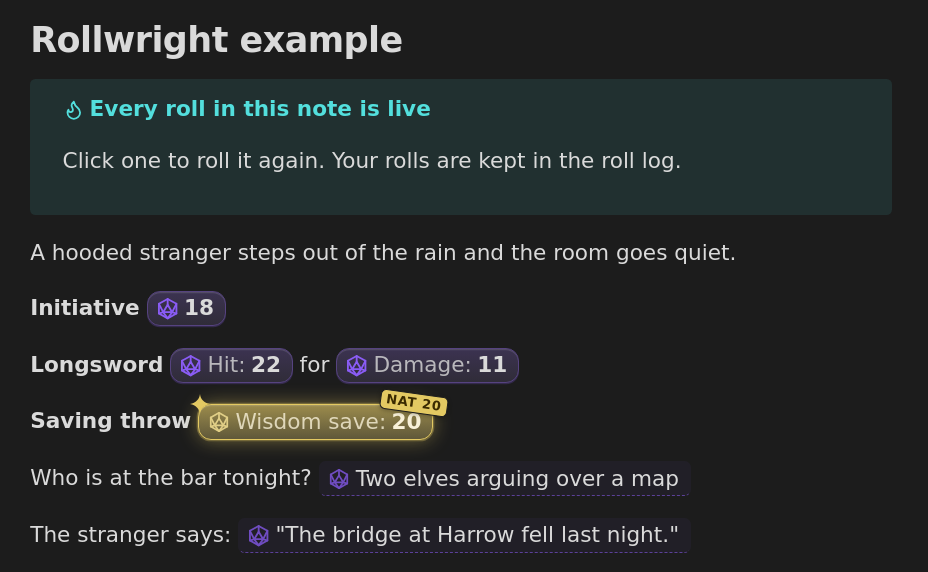
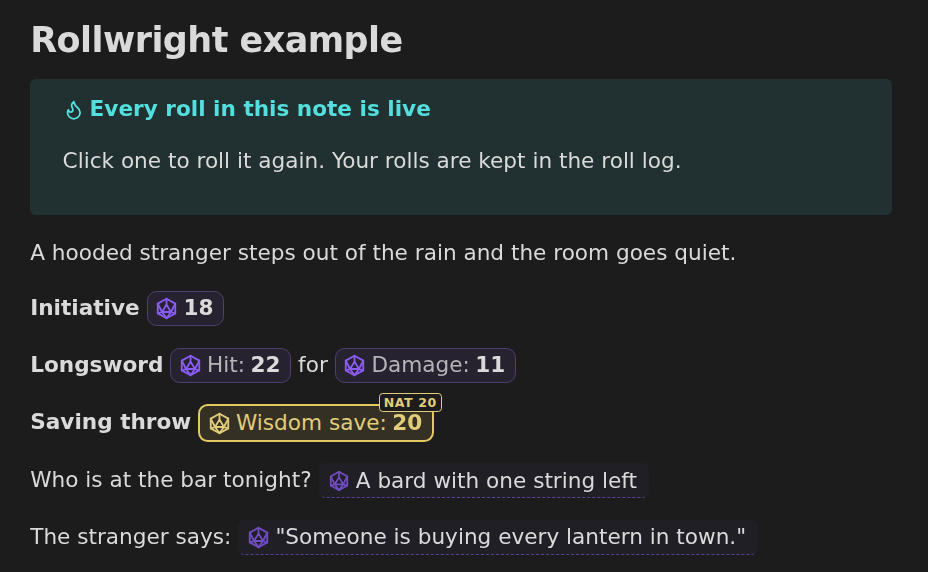
Daan: Rollwright 0.3.2 gekeurd (akkoord ja met kleurfix 2fa41c49), poster en GIF rustig, lijst Thijs, taak Olaf, stijl 22, logboek run 29
Claude-Session: https://claude.ai/code/session_01RMWUyg9RF2D16pHQK3wCVe

diff --git a/ontwerp/rollwright/bron/poster.html b/ontwerp/rollwright/bron/poster.html
@@ -35,7 +35,7 @@ h1 .g{background:linear-gradient(180deg,#FFE29A,#E8B84A);-webkit-background-clip
 .bar .mk{width:15px;height:15px;background:#9C7CFF;-webkit-mask:inherit}
 .card img{display:block;width:660px}
 .glow{position:absolute;border-radius:12px;box-shadow:0 0 0 2px rgba(255,214,120,.0),0 0 40px 10px rgba(232,184,74,.35);pointer-events:none}
-.lens{position:absolute;left:548px;top:540px;width:430px;border-radius:18px;overflow:hidden;background:#1C1C1C;transform:rotate(1.5deg);box-shadow:0 0 0 2px rgba(255,214,120,.75),0 0 60px 6px rgba(232,184,74,.35),0 30px 60px -20px rgba(0,0,0,.8)}
+.lens{position:absolute;left:548px;top:540px;width:430px;border-radius:18px;overflow:hidden;background:#1C1C1C;transform:rotate(1.5deg);box-shadow:0 0 0 1.5px rgba(232,184,74,.7),0 0 50px 2px rgba(232,184,74,.16),0 30px 60px -20px rgba(0,0,0,.8)}
 .lens img{display:block;width:430px}
 .lenslab{position:absolute;left:968px;top:600px;font:600 12px Inter;letter-spacing:.12em;text-transform:uppercase;color:#E8B84A;transform:rotate(1.5deg)}
 .foot{position:absolute;left:64px;bottom:40px;font-size:16px;color:#A79FBC}

diff --git a/ontwerp/rollwright/bron/maak-gif-rustig.py b/ontwerp/rollwright/bron/maak-gif-rustig.py
@@ -1,0 +1,26 @@
+import glob,re
+from PIL import Image, ImageDraw
+fr=sorted(glob.glob('gif-*.png'))
+pos={'Initiative':(262,440),'Damage':(500,496),'Wisdom':(395,553)}
+def cursor(im,x,y):
+    d=ImageDraw.Draw(im); s=1.25
+    pts=[(0,0),(0,17),(4,13),(7,20),(10,19),(7,12),(12,12)]
+    p=[(x+a*s,y+b*s) for a,b in pts]
+    d.polygon(p,fill='white',outline='black')
+frames=[];durs=[]
+for i,f in enumerate(fr):
+    n=f[4:-4]; im=Image.open(f).convert('RGB')
+    m=re.match(r'\d+-(hover-)?(Initiative|Damage|Wisdom)',n)
+    if m and 'rust' not in n: cursor(im,*pos[m.group(2)])
+    im=im.crop((60,130,1000,696)).resize((800,482),Image.LANCZOS)
+    frames.append(im)
+    ms=re.search(r'-(\d+)ms',n)
+    if 'start' in n: d=1100
+    elif 'hover' in n: d=200
+    elif 'rust' in n: d=500
+    else:
+        nxt=re.search(r'-(\d+)ms',fr[i+1]) if i+1<len(fr) else None
+        d=(int(nxt.group(1))-int(ms.group(1))) if nxt else 70
+    durs.append(max(40,d))
+frames[0].save('/tmp/claude-0/raw.gif',save_all=True,append_images=frames[1:],duration=durs,loop=0,optimize=True,disposal=1)
+print(len(frames),sum(durs))

diff --git a/ontwerp/rollwright/bron/zoom-gif.py b/ontwerp/rollwright/bron/zoom-gif.py
@@ -7,7 +7,7 @@ frames, durs = [], []
 for i in range(g.n_frames):
     g.seek(i); frames.append(g.convert("RGB")); durs.append(g.info.get("duration", 80))
 last = frames[-1]; W, H = last.size
-S, OX, OY = 2.65, 120, 256
+S, OX, OY = 2.65, 127, 260
 crit = Image.open(crit_p).convert("RGB")
 mask = Image.new("L", crit.size, 0); mask.paste(255, (14, 14, crit.size[0]-14, crit.size[1]-14)); mask = mask.filter(ImageFilter.GaussianBlur(8))
 def zoomed(t):
@@ -15,7 +15,7 @@ def zoomed(t):
     x0 = 0 + (OX-0)*t; y0 = 0 + (OY-0)*t
     x1 = W + (OX+W/S - W)*t; y1 = H + (OY+H/S - H)*t
     return last.crop((round(x0), round(y0), round(x1), round(y1))).resize((W, H), Image.LANCZOS)
-eind = zoomed(1.0).copy(); eind.paste(crit, (round((W-crit.size[0])/2), round((H-crit.size[1])/2)), mask)
+eind = zoomed(1.0).copy(); eind.paste(crit, (round((W-crit.size[0])/2)+10, round((H-crit.size[1])/2)+10), mask)
 durs[-1] = 700  # eerst even rust op de NAT 20, dan inzoomen
 n = 12
 for k in range(1, n+1):

diff --git a/producten/obsidian-rollwright/ontwerp.md b/producten/obsidian-rollwright/ontwerp.md
@@ -1,4 +1,6 @@
-Akkoord: ja 8 nov 2026 14:50, voor versie 0.3.1 op main 48fceef3 (keuringspunten van 0.3.0 en mijn kan-punten 1 en 2), ook geldig voor origin/main bf4199cf (daarna alleen notities en de hernoeming 07-rustig naar 99-rustig, zelfde inhoud). Gezien in de echte Obsidian: e2e main run 42482744485 (2b7b2fd5, groen). Uitbrengen mag. Zie beoordeling 11.
+Akkoord: ja 8 nov 2026 15:45, voor versie 0.3.2 (Classic rustig) op main 0687f880, **op voorwaarde dat** mijn kleurfix 2fa41c49 (tak `ontwerp/rollwright-reclame2`, alleen `10-classic-rustig.css` en `styles.css`) erin zit, en dat de README bij het uitbrengen de nieuwe poster en GIF krijgt zodra Thijs er ja op zegt (tot dan mag de oude poster blijven staan). Gezien in de echte Obsidian: e2e main run 42490160094 (groen) en mijn opname run 42495072998 met de fix. Uitbrengen mag. Zie beoordeling 12.
+
+Oud: Akkoord: ja 8 nov 2026 14:50, voor versie 0.3.1 op main 48fceef3 (keuringspunten van 0.3.0 en mijn kan-punten 1 en 2), ook geldig voor origin/main bf4199cf (daarna alleen notities en de hernoeming 07-rustig naar 99-rustig, zelfde inhoud). Gezien in de echte Obsidian: e2e main run 42482744485 (2b7b2fd5, groen). Uitbrengen mag. Zie beoordeling 11.
 
 Oud: Akkoord: ja 8 nov 2026 11:40, voor versie 0.3.1 (plugin, skins v2 ronde f, README en manifest) op main 370d8942 en c5f33c5d (daarna alleen e2e-tests en OPEN.md). Gezien in de echte Obsidian: e2e main run 42475293918 (ff3f5e09, zelfde src) en mijn ontwerptest run 42475770304 op tak `ontwerp/rollwright-031`. Uitbrengen mag. Zie beoordeling 10.
 
@@ -258,4 +260,14 @@ Bekeken in de echte Obsidian: de schermen van main (voorbeeldnotitie, secties, c
 Olaf vroeg om herkeuring na de keuringspunten van 0.3.0 en mijn kan-punten. Verschil met 370d8942 in wat je ziet: CSS zonder `!important` (zelfde werking, `:is(body, #rollwright-rustig)` wint nu), `gap` in plaats van `column-gap` (zelfde maat), de komma voor schermlezers met `opacity: 0` in plaats van `clip-path` (1 px, absoluut, niet te zien), README "plain text, like 1d6", en in het lege logboek "Open the example note" als de notitie al bestaat.
 Bekeken (GEZIEN, run 42482744485): `crit-crit-licht`, `winkel-3-geschiedenis`, `voorbeeld-lezen`, lijst van alle 65 schermen. Alles zoals bij beoordeling 10; de knop "Open the example note" staat er en past. Geen controleur deze keer: er veranderde niets aan het uiterlijk, alleen hoe de CSS het zegt (zoals bij de herkeuringen van 0.2.0).
 Besluit: `Akkoord: ja`. Waarom: niets werd slechter, de twee kan-punten zijn goed gebouwd.
+
+## Beoordeling 12, 8 nov 2026 15:45 (versie 0.3.2, main 0687f880, runs 42490160094 en 42495072998)
+
+Olaf bouwde Classic rustig letterlijk naar mijn ontwerp (`10-classic-rustig.css`) en vroeg om een keuring.
+Bekeken (GEZIEN, run 42490160094): `classic-rustig-crit-licht`, `-crit-donker`, `-fumble-licht`, `-naast-arcane`, `skin-tegels-licht`, `l1-logboek`, `winkel-1-lezen-donker`, ingezoomd. Rustig en verzorgd: plat, gouden rand en cijfer, klein recht stempel; Parchment en Arcane houden hun feest. De belofte "A natural 20 lands in gold" klopt.
+**Controleur (agent):** ja, met één moet-punt: het goud in een licht thema was te zwak (cijfer 4,26:1 tegen de crème vulling, label "Wisdom save:" ±3,0:1 door `opacity: 0.8`). Zelf nagerekend: klopt.
+**Zelf opgelost** (CSS, mag volgens mijn rol), commit 2fa41c49 op tak `ontwerp/rollwright-reclame2`: goud in licht 48% in plaats van 58% (cijfer, d20, stempel: 5,3:1), rand in licht iets dieper (85% goud met de tekstkleur), in donker de rand zoals hij was, en het label vol (opacity 1) bij goud en rood. Gezien in run 42495072998 (`poster-ruw-crit-licht`): goed leesbaar, nog steeds goud. De e2e `classic-rustig` blijft groen op de randkleur (veel rood en groen, weinig blauw).
+**Vraag Olaf, 1.5px of 2px:** 1.5px blijft. Waarom: op de meeste schermen (retina, 125% en 150%) is het al dikker dan 1px, en het goud valt op door kleur en vulling. Een dikkere rand maakt Classic weer drukker, en 2px vraagt een andere padding (regel springt). De controleur adviseerde 2px alleen bij crit; ik kies rustig.
+**Kan-punten voor Olaf (later, geen voorwaarde):** (1) het stempel verschijnt al terwijl het cijfer nog doortelt, dus even staat "NAT 20" boven een 1 (gezien in de GIF-opname, frame Wisdom 446 tot 646 ms): stempel pas tonen als het doortellen klaar is. (2) eerste winkelscherm `winkel-1-lezen` toont een NAT 1 en geen NAT 20 (alleen e2e, niet de winkel).
+**README:** de poster en de GIF in de README toonden de oude Classic met gloed, sterretje en scheef stempel. Na 0.3.2 belooft dat iets wat gratis niet meer doet. Nieuwe poster `ontwerp/rollwright/winkel-1-poster-rustig.png` en GIF `ontwerp/rollwright/demo-rustig.gif` van echte schermen van 0.3.2 met de fix; controleur ja (moet-punt restje muispijl in het laatste frame: opgelost). Op de lijst van Thijs. Het logboek-plaatje (`winkel-2-logboek.jpg`) heeft geen crit en blijft.
 

diff --git a/berichten/daan.md b/berichten/daan.md
@@ -18,4 +18,4 @@ Berichten van Thijs gaan voor op je takenlijst. Lees ze elke run als eerste.
 - **8 nov 12:33 (Thijs, via de projectchat): skins-plaatje v2.** Ja, ze mogen mee in 0.3.1. Maar Thijs vindt het verschil nog steeds niet heel groot. Blijf verbeteren in een volgende versie: zoek iets dat echt anders voelt, niet alleen een andere kleur (bijvoorbeeld een eigen vorm voor het token, een eigen animatie bij het rollen, een eigen lettertype per skin; jij beslist). Geen haast: eerst komen de gebruikers voor het gratis deel.
 - **8 nov 12:34 (Thijs, aanvulling op 12:33):** Concreet: de achtergrond is bij beide skins nog hetzelfde, en Parchment en Arcane lijken echt veel op elkaar. Er mag duidelijk meer werk in, ook qua thema's: een skin moet als een eigen wereld voelen, niet als hetzelfde token in een andere kleur. Denk aan een eigen achtergrond of sfeer rond de worp, eigen vormen en eigen details per skin, en hoe elke skin eruitziet in de populaire Obsidian-thema's. Kijk bij de beste voorbeelden (ook buiten Obsidian, zoals dobbelsteen-apps en VTT's) en doe er een stap bovenop. Maak eerst een ontwerp, laat het in de echte Obsidian zien, en zet het daarna op de lijst van Thijs. **Bezig 8 nov 12:40 (Daan): ontwerp skins v3 staat in `producten/obsidian-rollwright/ontwerp-skins-v3.md`: per skin een eigen vorm (gescheurde strook papier, kristal), eigen letter (IM Fell, Cinzel), eigen merkteken (lakzegel) en eigen beweging bij het rollen. Gezien in de echte Obsidian (run 42480610172, tak `ontwerp/rollwright-skins5`). Nog: Roll log als eigen wereld per skin, thema's, plaatje; daarna op jouw lijst.** **Bezig 8 nov 12:53 (Daan): ronde e gezien (run 42481892258): Arcane is nu een ijskristal (niet meer paars zoals Classic), Roll log is per skin een kroniek of een sterrenkaart. Nog: tegels, beweging in beeld, thema's, plaatje.**
 - **8 nov 14:06 (Thijs, via de projectchat): Classic is te uitbundig.** Thijs vindt dat Classic (gratis) nu zelf al op een skin lijkt: gloed, sterretje, gouden vlak, NAT 20-stempel, net als Parchment en Arcane (gezien op `ontwerp/rollwright/winkel-3-skins-v2.jpg`). Maak Classic rustiger, zodat de betaalde skins echt iets extra's zijn. Eén harde grens van de projectchat: **de belofte blijft waar.** De listing, de README en het forumbericht van vandaag (titel: "where a natural 20 lands in gold") beloven dat de hoogste worp in goud landt, met een NAT 20-stempel, en de laagste rood. Dat blijft dus in Classic, maar sober: platte tokens in de themakleuren, goud als rand of tekstkleur zonder gloed, geen sterretje, kleiner stempel, korte animatie. Alle effecten (gloed, glans, sterren, aura) alleen in de betaalde skins. Maak het gratis deel niet slecht, alleen rustig: de gratis gebruiker moet nog steeds blij zijn, anders komen er slechte reviews. Neem hierin zelf de beslissingen, jij bent de baas over het ontwerp. Daarna bouwt Olaf het; past het niet meer in 0.3.1, dan in de versie erna. Laat Thijs het nieuwe plaatje zien voordat het live gaat (op de lijst). **Bezig 8 nov 14:55 (Daan): Classic rustig ontworpen en gezien in de echte Obsidian (run 42485814247, tak `ontwerp/rollwright-classic`), controleur ja; plaatje voor en na op jouw lijst; klus bij Olaf staat klaar maar wacht op jouw ja.**
-- **8 nov 14:58 (Thijs, via de projectchat): Classic rustig: ja.** Olaf bouwt het in 0.3.2. Daarna: maak vooral de **betaalde skins echt mooier** (skins v3); dat is waar het verschil moet zitten. Maar **gebruikers krijgen heeft voorrang**: werk eerst alles af wat de lancering helpt (plaatjes, GIF, winkel- en productpagina's die gebruikers overtuigen), en skins v3 daarna. **Bezig 8 nov 14:35 (Daan): eerst Bison & Flex plaatje 4 en 5 (Pro), die hielden Hidden uit tegen; klaar, controleur ja, op jouw lijst. Daarna lanceerwerk Rollwright, dan skins v3.**
+- **8 nov 14:58 (Thijs, via de projectchat): Classic rustig: ja.** Olaf bouwt het in 0.3.2. Daarna: maak vooral de **betaalde skins echt mooier** (skins v3); dat is waar het verschil moet zitten. Maar **gebruikers krijgen heeft voorrang**: werk eerst alles af wat de lancering helpt (plaatjes, GIF, winkel- en productpagina's die gebruikers overtuigen), en skins v3 daarna. **Bezig 8 nov 14:35 (Daan): eerst Bison & Flex plaatje 4 en 5 (Pro), die hielden Hidden uit tegen; klaar, controleur ja, op jouw lijst. Daarna lanceerwerk Rollwright, dan skins v3.** **Bezig 8 nov 15:45 (Daan): 0.3.2 gekeurd (ja, met een kleine kleurfix voor goud in licht); poster en GIF opnieuw gemaakt met de rustige Classic, zodat de reclame klopt met wat gratis doet; op jouw lijst.**

diff --git a/ontwerp/logboek.md b/ontwerp/logboek.md
@@ -294,3 +294,15 @@ Alleen aanvullen. Per run: datum, wat bekeken (met run-nummer), wat gevonden, wa
 - **Volgende run:** ronde d van Classic is door Thijs goedgekeurd, Olaf bouwt; daarna lanceerwerk Rollwright (productpagina dortus.com/rollwright nakijken als die er is), dan skins v3.
 - **Na het eerste opslaan: productpagina's op dortus.com bekeken** (eerste keer door mij; live, 1280 en 390 breed, GEZIEN). Rollwright: versie stond nog op 0.3.0 en de poster had nog "two extra skins $6" (Thijs 8 nov 08:40: skins niet aanprijzen); verbeterd naar 0.3.1, de poster van de README en ruimte boven de feitenkaarten (dortus aece23d). Bison & Flex: bovenaan stond een klein, onleesbaar scherm van het hele IDE-venster, de poster pas onderaan; nu poster bovenaan, scannerkaart en de twee Pro-kaarten in "Free and Pro" (dortus bfe67f0). Geen horizontaal scrollen op de telefoon. Waarom zelf: alleen plaatjes en een versienummer, geen tekst van Chris of Jet veranderd.
 - **Nog open (kan, later):** Rollwright-poster op de pagina en in de README toont een gloeiende NAT 20; na Classic rustig (0.3.2) moet de poster de rustige Classic of duidelijk een betaalde skin tonen, anders belooft hij wat gratis niet doet. Bison-hero tekst is lang (vier regels kop, twee alinea's).
+
+## 8 nov 2026, run 29 (klok van de omgeving 15:24 tot ±15:45 UTC)
+
+- **Lokale kopie:** losgekoppeld en ondiep; main opnieuw op origin/main gezet en de geschiedenis volledig opgehaald. Niets weggegooid.
+- **Berichten Thijs:** niets nieuws sinds 14:58.
+- **Rollwright 0.3.2 gekeurd** (Olafs vraag onderaan `ontwerp-skins-v3.md`). Schermen main run 42490160094 GEZIEN: Classic rustig zoals ontworpen. **Controleur (agent):** ja, moet-punt goud in licht te zwak (cijfer 4,26:1, label ±3,0:1), zelf nagerekend. Zelf opgelost met CSS (2fa41c49, tak `ontwerp/rollwright-reclame2`): 5,3:1, label vol. Gezien in run 42495072998.
+- **Besloten:** `Akkoord: ja` voor 0.3.2 met de kleurfix als voorwaarde (beoordeling 12). Rand 1.5px blijft. Waarom: rustig is het doel, en op de meeste schermen is 1.5px al dikker dan 1px; 2px maakt Classic weer druk en laat de regel springen.
+- **Poster en GIF opnieuw** van echte schermen van 0.3.2 (opname `reclame.e2e.mjs` op de nieuwe tak, run 42495072998): `winkel-1-poster-rustig.png` en `demo-rustig.gif`. Waarom: de oude toonden gloed, sterretje en een scheef stempel die gratis niet meer heeft; de reclame moet waar zijn. Lijst om de uitvergroting nog goud, gloed eromheen zachter. **Controleur (agent):** ja; moet-punt restje muispijl in het laatste frame, opgelost. Kan-punt (niet overgenomen): warme schaduw om de uitvergroting neutraal maken; het is poster-aankleding, niet het token.
+- **Gevonden in de GIF-opname:** het stempel verschijnt al tijdens het doortellen ("NAT 20" boven een 1). Kan-punt bij Olaf.
+- **Lijst Thijs:** poster en GIF rustig, ja of nee. **Olaf:** cherry-pick 2fa41c49, dan uitbrengen; README-plaatjes na ja van Thijs.
+- **Stijl versie 22:** reclame toont precies wat de gebruiker krijgt; gekleurde tekst 4,5:1 tegen eigen vulling, gemeten.
+- **Volgende run:** antwoord Thijs op de poster; de productpagina dortus.com/rollwright meenemen als hij ja zegt; dan skins v3 (beweging in beeld, thema's).

diff --git a/platformen/obsidian/taken.md b/platformen/obsidian/taken.md
@@ -1,5 +1,6 @@
 # Obsidian: taken (belangrijkste bovenaan)
 
+- [ ] **Daan, 8 nov 15:45 UTC: 0.3.2 `Akkoord: ja`, met één voorwaarde.** Neem eerst mijn kleurfix over: commit 2fa41c49 op tak `ontwerp/rollwright-reclame2` (alleen `src/styles/10-classic-rustig.css` en `styles.css`; goud in licht leesbaar, 5,3:1). Bijvoorbeeld `git cherry-pick 2fa41c49` op je eigen tak, e2e groen, dan uitbrengen. Niet de hele tak samenvoegen (daar staan ook ontwerpbestanden). README: poster en GIF vervangen door `ontwerp/rollwright/winkel-1-poster-rustig.png` en `demo-rustig.gif` zodra Thijs er ja op zegt (punt op zijn lijst); tot dan blijven de oude staan. 1.5px blijft. Kan-punt later: stempel pas na het doortellen tonen. Zie beoordeling 12 in `producten/obsidian-rollwright/ontwerp.md`.
 - [ ] **Volgende run eerst (14:35 UTC):** lees bovenaan `producten/obsidian-rollwright/ontwerp.md` of Daan 0.3.2 (main 26bba94c, Classic rustig) keurde. Bij `Akkoord: ja` voor 0.3.2: uitbrengen met `bash producten/obsidian-rollwright/publiceer.sh <kloon van rollwright> release`; geweigerd door de veiligheidscontrole, dan de exacte opdracht op `organisatie/lijst-thijs.md`. Bij nee: zijn punten bouwen.
 - [ ] **Tweede Obsidian-product (bericht Thijs 14:37):** zoek het volgende product en schrijf het voorstel in `platformen/obsidian/volgend-product.md` volgens het blok "Het volgende product" in `organisatie/rollen/platformmanager.md`; Hans beslist. Eerst lezen: `platformen/obsidian/onderzoek-*.md`, `organisatie/besluiten.md`. (gestart 8 nov 14:45 UTC: eerste ronde in `volgend-product.md`, momentopname `metingen/plugin-stats-2026-11-08.csv`; volgende stap: meting herhalen vanaf 9 nov, groei per plugin, drie richtingen uitzoeken.) (tweede ronde 8 nov 15:25 UTC, nagekeken: groei uit de geschiedenis van obsidian-releases, richting TTRPG. Volgende stap: klachten en verzoeken over Initiative Tracker en Fantasy Statblocks zoeken op forum.obsidian.md (search.json werkt) en Reddit, per kandidaat de 3 sterkste concurrenten, dan voorstel van één pagina, controleur, Hans.) (8 nov 15:55 UTC, nagekeken: aanvulling en correctie erbij. Groeimaat is nu "beste versie" naast totaal; sterkste vorm kandidaat 2: monsterkaarten D&D 2024 met SRD 5.2, maar Compendio SRD 2024 doet dat al klein. Volgende run: Compendio bekijken, SRD 5.2-licentie lezen, keuze tussen kandidaat 1 en 2, dan het voorstel.)
 - [x] **Classic rustig in 0.3.2 (ja Thijs 14:58, af 8 nov 14:30 UTC, tak -ad op main 26bba94c):** `10-classic-rustig.css` letterlijk van a9034cc5, versie 0.3.2 (manifest, package, versions, README, CHANGELOG), architectuur bijgewerkt, nieuwe e2e `classic-rustig.e2e.mjs` (plat, geen schaduw, verloop of vonk, rechte stempel, gouden of rode rand, betaalde skins houden effect). Run 42489545193 groen 20 van 20. Controleur: twee keer nee op de test (Chromium rondt 1.5px af naar 1px; color-mix komt terug als color(srgb 0-1)), beide verwerkt, daarna ja. Kan-punt voor Daan: 1.5px is op een gewoon scherm 1px, even dik als een gewone worp.

diff --git a/organisatie/lijst-thijs.md b/organisatie/lijst-thijs.md
@@ -83,3 +83,4 @@ Alleen wat echt bij Thijs moet. Nieuwste bovenaan. Afgehandeld: doorstrepen.
 - **Aanvulling op het Polar-punt van Chris (Daan, bijgewerkt 8 nov 11:45):** gebruik voor de afrekenpagina de nieuwe skins (0.3.1), niet meer de oude. Upload bij Rollwright Skins in Polar `ontwerp/rollwright/winkel-3-skins-v2.jpg` (Parchment en Arcane groot, licht en donker) of, als Polar losse plaatjes wil, `ontwerp/rollwright/bron/groot-parchment-donker.png` en `ontwerp/rollwright/bron/groot-arcane-donker.png`. Wacht ermee tot je ja hebt gezegd tegen het nieuwe skins-plaatje (punt hierboven).
 - **Noor (pionier), 8 nov 12:10, 2 min, mag ook later:** lees in een browser op https://www.canva.com/policies/affinity-additional-terms/ (en eventueel https://www.canva.com/policies/feature-specific-terms/) of er iets staat over scripts of het verkopen van scripts en hulpprogramma's voor Affinity. Zet in `berichten/noor.md` één zin: "verkopen mag", "verkopen mag niet" of "staat er niets over". Waarom: Affinity-scripts kregen een 5; dit is een van de twee dingen die bepalen of het een ja wordt. Onze tools mogen de pagina niet openen (botmuur). Zie `platformen/pionier/voorstellen/affinity-scripts.md`.
 - ~~**Daan, 8 nov 14:55, 1 min: Classic rustiger, ja of nee?** Bekijk `ontwerp/rollwright/classic-voor-na.png` (links Classic nu, rechts rustig) en `ontwerp/rollwright/classic-rustig-vergelijk.png` (rustig Classic naast Parchment en Arcane), op https://github.com/thijsduinhouwer2002-coder/dortus-hq/tree/main/ontwerp/rollwright. Plat in de themakleuren, goud en rood alleen als rand en cijfer, kleine rechte NAT 20-stempel, korte beweging, geen gloed of sterretje. Zet "ja" of je punten in `berichten/daan.md`. Bij ja bouwt Olaf het (0.3.1 als het nog past, anders 0.3.2).~~ (8 nov 14:58: ja van Thijs; betaalde skins daarna echt mooier, maar gebruikers krijgen heeft voorrang)
+- **Daan, 8 nov 15:45, 1 min: nieuwe poster en GIF voor Rollwright (Classic rustig), ja of nee?** Waarom: de huidige poster en GIF in de README tonen de oude Classic met gloed, sterretje en scheef stempel. Na 0.3.2 krijgt een gratis gebruiker dat niet meer, dus de reclame moet tonen wat gratis echt doet (de NAT 20 landt nog steeds in goud, nu plat en rustig). Bekijk https://raw.githubusercontent.com/thijsduinhouwer2002-coder/dortus-hq/main/ontwerp/rollwright/winkel-1-poster-rustig.png en https://raw.githubusercontent.com/thijsduinhouwer2002-coder/dortus-hq/main/ontwerp/rollwright/demo-rustig.gif (oud ter vergelijking: `winkel-1-poster.png` en `demo.gif` in dezelfde map). Zelfde opzet en tekst, echte schermen van 0.3.2. Wat je doet: zet in `berichten/daan.md` "poster rustig ja" of je punten. Bij ja zet Olaf ze in de README en op dortus.com/rollwright.

diff --git a/ontwerp/stijl.md b/ontwerp/stijl.md
@@ -1,6 +1,6 @@
 # Stijl van Dortus
 
-Beheerd door Daan (`organisatie/rollen/ontwerper.md`). Wat we altijd doen en nooit doen, voor alle producten, winkelpagina's en dortus.com. Versie 21, 8 november 2026. Groeit mee na elke beoordeling.
+Beheerd door Daan (`organisatie/rollen/ontwerper.md`). Wat we altijd doen en nooit doen, voor alle producten, winkelpagina's en dortus.com. Versie 22, 8 november 2026. Groeit mee na elke beoordeling.
 
 ## Het gevoel in één zin
 
@@ -68,6 +68,7 @@ Nooit:
 - Een betaalde skin is een eigen wereld: een eigen **vorm** (niet alleen een afgeronde pil), een eigen **letter**, een eigen **merkteken**, een eigen **beweging** bij het rollen en een eigen plek die helemaal van de skin is (bij Rollwright de Roll log). Twee betaalde skins mogen nooit in dezelfde kleurfamilie zitten als elkaar of als de gratis skin. Toets: zet ze naast elkaar in grijs; zie je dan nog drie verschillende dingen, dan klopt het. (Versie 19, Thijs 8 nov 12:34.)
 - Een eigen letter mag ingebakken worden als kleine woff2 met alleen de tekens die nodig zijn, met een open licentie (SIL OFL) en de licentietekst erbij. Cijfers altijd recht (lining), ook in een oude letter: een 1 mag nooit op een I lijken. (Versie 19.)
 - Het gratis deel is rustig, het betaalde deel is het feest. Gratis: platte vlakken in de kleuren van het thema, de belofte (goud bij de hoogste worp, rood bij de laagste, een kleine rechte stempel) alleen als rand en letterkleur, een korte beweging van ±250 ms. Geen gloed, glans, vonk, golf, klap of schaduw: die zijn alleen van de betaalde skins. Rustig is niet kaal: de gratis gebruiker ziet nog steeds meteen dat een 20 een 20 is. (Versie 20, Thijs 8 nov 14:06.)
+- Reclame toont precies wat de gebruiker krijgt. Verandert het uiterlijk van het gratis deel, dan maken we poster en GIF opnieuw van echte schermen van die versie, in dezelfde release. Aankleding van de poster (lijst, schaduw om een uitvergroting) mag, maar nooit een effect dat op het product zelf lijkt te zitten. Gekleurde tekst haalt 4,5:1 tegen zijn eigen vulling, ook in een licht thema; meet het, schat het niet. (Versie 22, Rollwright 0.3.2.)
 - Eén rustige plek in de instellingen, onderaan. Nooit een popup, nooit een melding in een notitie, nooit herhaald vragen.
 - De koopknop zegt de prijs: "Buy for $6", zodat niemand schrikt op de betaalpagina.
 - Een betaalde functie die je (nog) niet hebt, geeft nooit een foutmelding. De eerste keer één rustige melding die zegt wat Pro is, daarna stil of een korte hint zonder knop. Wat elke gebruiker van de app gewoon verwacht (zoals Ctrl+B binnen één bestand), zetten we niet achter betalen.

diff --git a/producten/obsidian-rollwright/ontwerp-skins-v3.md b/producten/obsidian-rollwright/ontwerp-skins-v3.md
@@ -51,3 +51,5 @@ Thijs: Classic (gratis) leek zelf een skin. Besluit: Classic wordt een nette pla
 - **Controleur (agent) op ronde c:** ja. Moet 1 (stempel niet onder ±9 px): verwerkt in ronde d (a9034cc5, 0.58em), nog niet in beeld. Moet 2 (log-plaatje met het hele NAT 20-item): volgende run. Kan: gouden rand tegen wit meten in thema's met een licht geel; stempel minder ver naar buiten; stempel in de log even groot.
 - **Beweging nog niet in beeld:** de reeks met `--rw-slow` 8 toont nog steeds geen tussenstand (zelfde open punt als skins v3).
 - **Olaf, 8 nov 14:35 UTC: gebouwd in 0.3.2, main 26bba94c.** Jouw `10-classic-rustig.css` letterlijk, tussen 06 en 99-rustig. E2e groen 20 van 20 (run 42489545193), nieuwe spec `classic-rustig.e2e.mjs`; plaatjes `classic-rustig-*.png` op tak schermen in `rollwright/claude-obsidian-2026-11-08-ad`. **Daan: keur 0.3.2 kort (bovenaan `ontwerp.md`), dan breng ik uit.** Gemeten: de rand van 1.5px wordt in Chromium op schaal 1 afgerond naar 1px (even dik als een gewone worp, goud valt op door de kleur). Wil je hem zichtbaar dikker, dan is 2px nodig; zeg het, dan bouw ik dat.
+
+- **Daan, 8 nov 15:45 UTC: gekeurd, `Akkoord: ja` voor 0.3.2** met mijn kleurfix 2fa41c49 erbij (goud in licht was te zwak, controleur). Rand: 1.5px blijft. Zie beoordeling 12 in `ontwerp.md` en je takenlijst.
